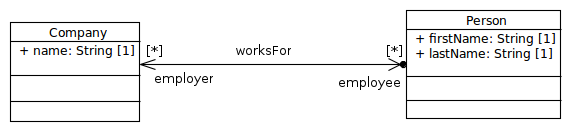
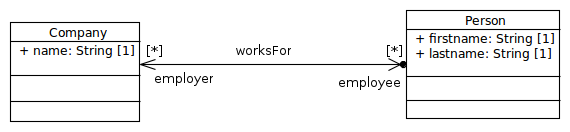
work on quick preview

diff --git a/framework/java-generation/src/main/java/org/umlg/javageneration/visitor/clazz/ClassBuilder.java b/framework/java-generation/src/main/java/org/umlg/javageneration/visitor/clazz/ClassBuilder.java
@@ -41,6 +41,7 @@ public class ClassBuilder extends BaseVisitor implements Visitor<Class> {
         addDefaultSerialization(annotatedClass);
         implementIsRoot(annotatedClass, UmlgClassOperations.getOtherEndToComposite(clazz).isEmpty());
         addPersistentConstructor(annotatedClass);
+        callPersistentConstructorFromDefault(annotatedClass);
         addInitialiseProperties(annotatedClass, clazz);
         addContructorWithVertex(annotatedClass, clazz);
         if (clazz.getGeneralizations().isEmpty()) {
@@ -107,6 +108,10 @@ public class ClassBuilder extends BaseVisitor implements Visitor<Class> {
         persistentConstructor.addParam(UmlgGenerationUtil.PERSISTENT_CONSTRUCTOR_PARAM_NAME, new OJPathName("java.lang.Boolean"));
         persistentConstructor.getBody().addToStatements("super(" + UmlgGenerationUtil.PERSISTENT_CONSTRUCTOR_PARAM_NAME + ")");
         ojClass.addToConstructors(persistentConstructor);
+    }
+
+    private void callPersistentConstructorFromDefault(OJAnnotatedClass annotatedClass) {
+        annotatedClass.getDefaultConstructor().getBody().addToStatements("super(true)");
     }
 
     private void addInitialiseProperties(OJAnnotatedClass annotatedClass, Class clazz) {

diff --git a/demo/demo-quick-preview/application/src/test/java/com/rorotika/test/TestDemo.java b/demo/demo-quick-preview/application/src/test/java/com/rorotika/test/TestDemo.java
@@ -42,15 +42,15 @@ public class TestDemo {
         Company company1 = new Company(true);
         company1.setName("TBL");
         Person person1 = new Person(true);
-        person1.setFirstName("Joe");
-        person1.setLastName("Bloggs");
+        person1.setFirstname("Joe");
+        person1.setLastname("Bloggs");
         company1.addToEmployee(person1);
 
         Company company2 = new Company(true);
         company2.setName("Company2");
         Person person2 = new Person(true);
-        person2.setFirstName("Todd");
-        person2.setLastName("Dolittle");
+        person2.setFirstname("Todd");
+        person2.setLastname("Dolittle");
         company2.addToEmployee(person2);
         db.commit();
 
